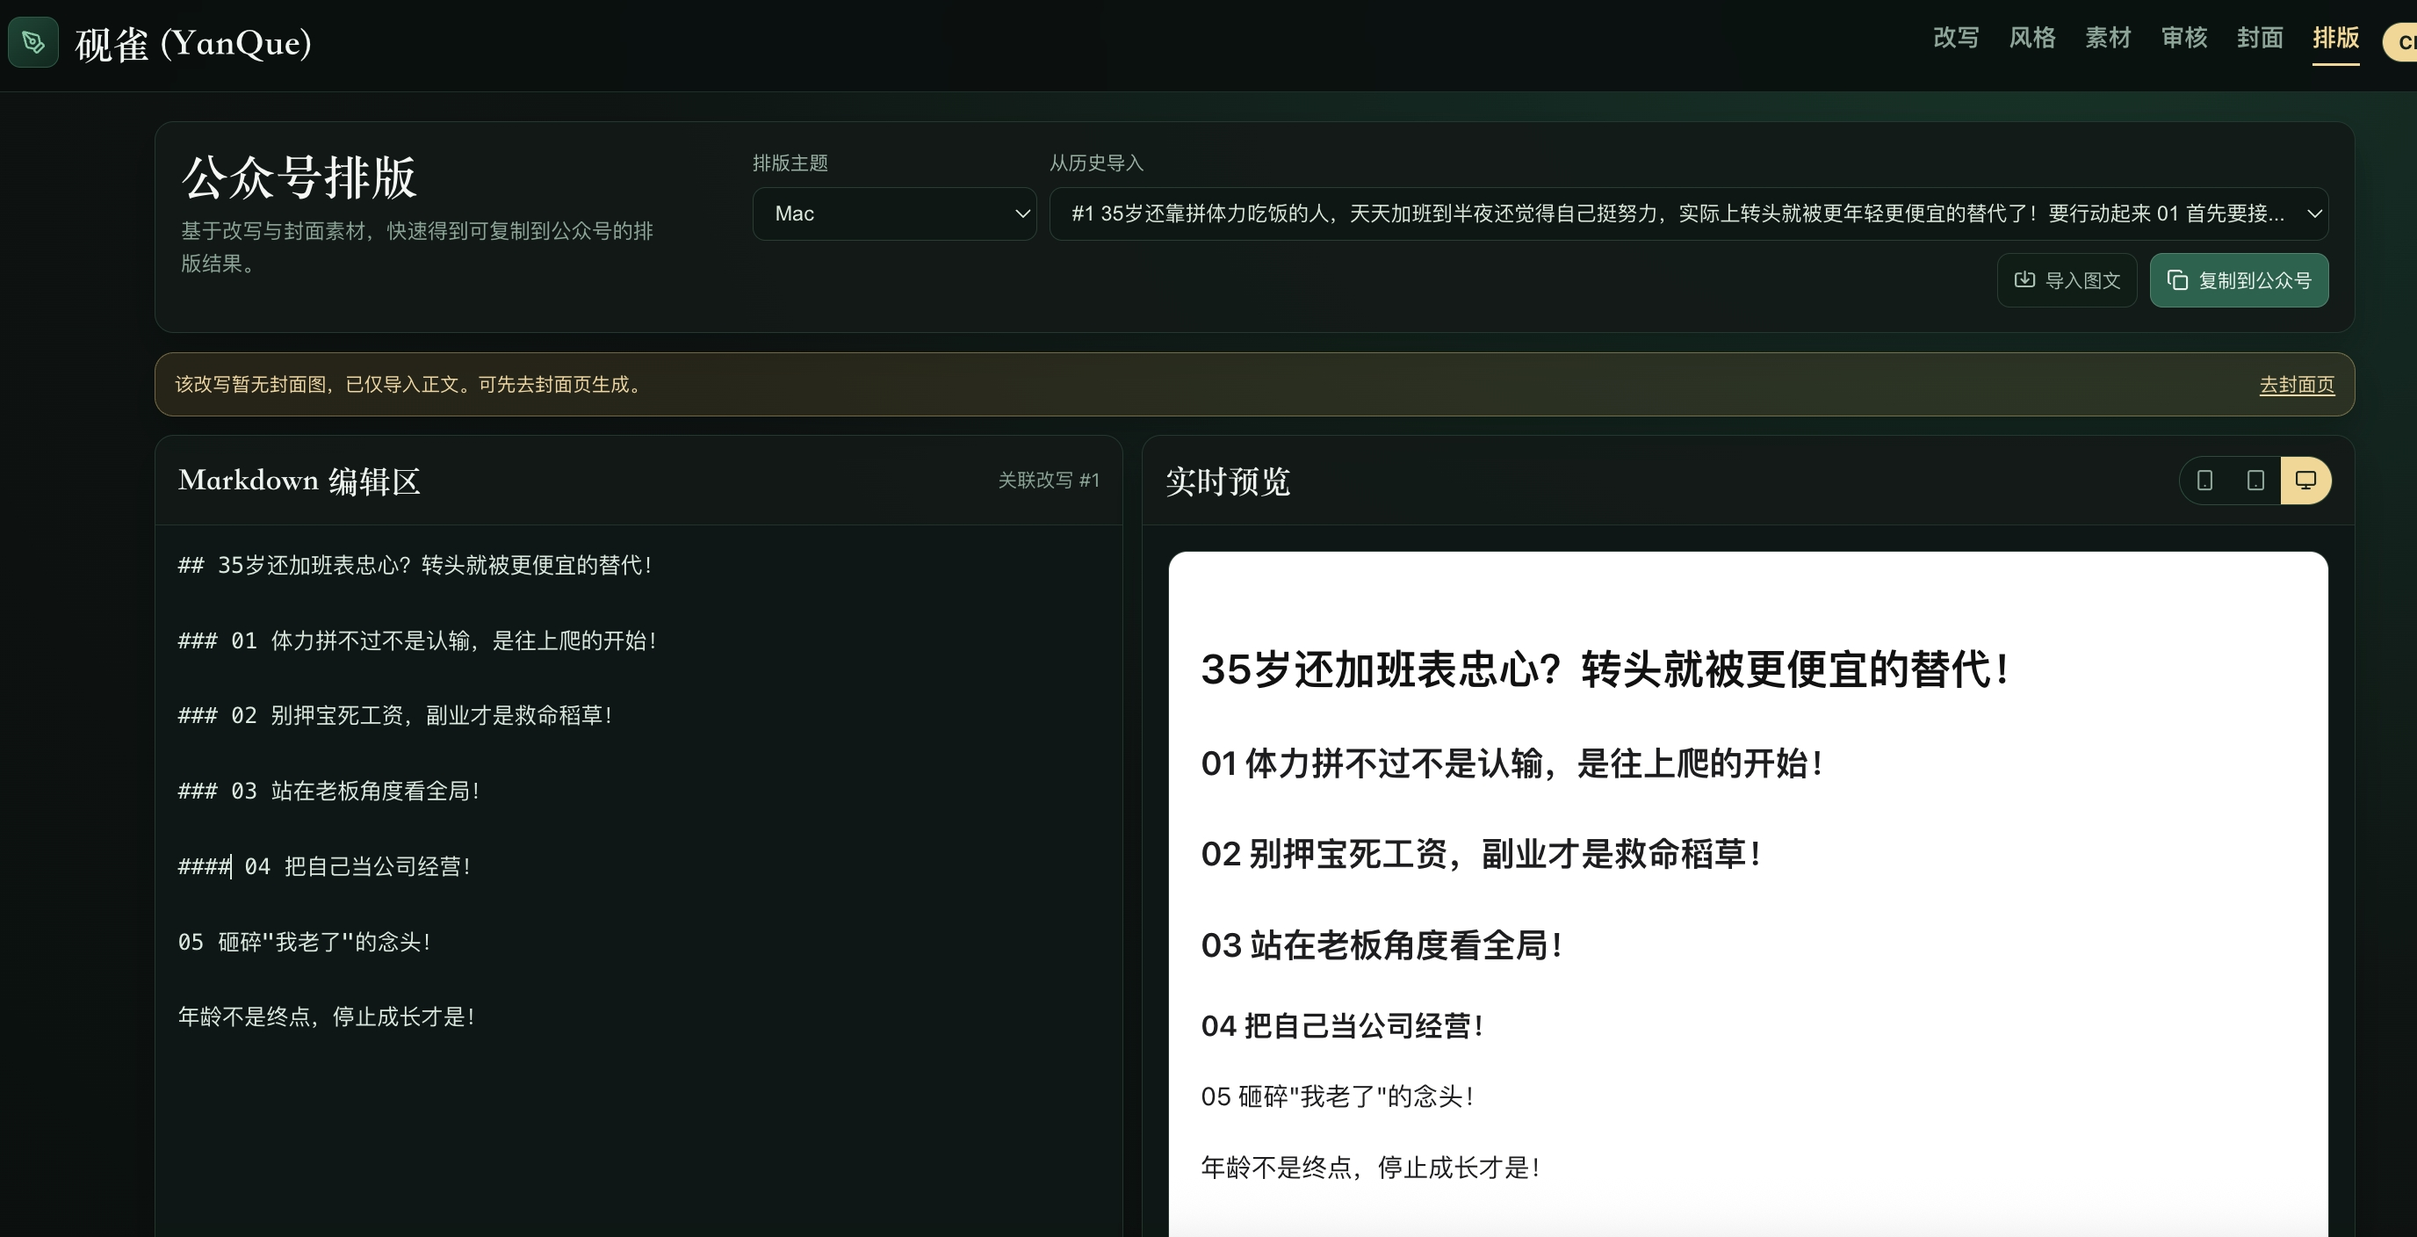
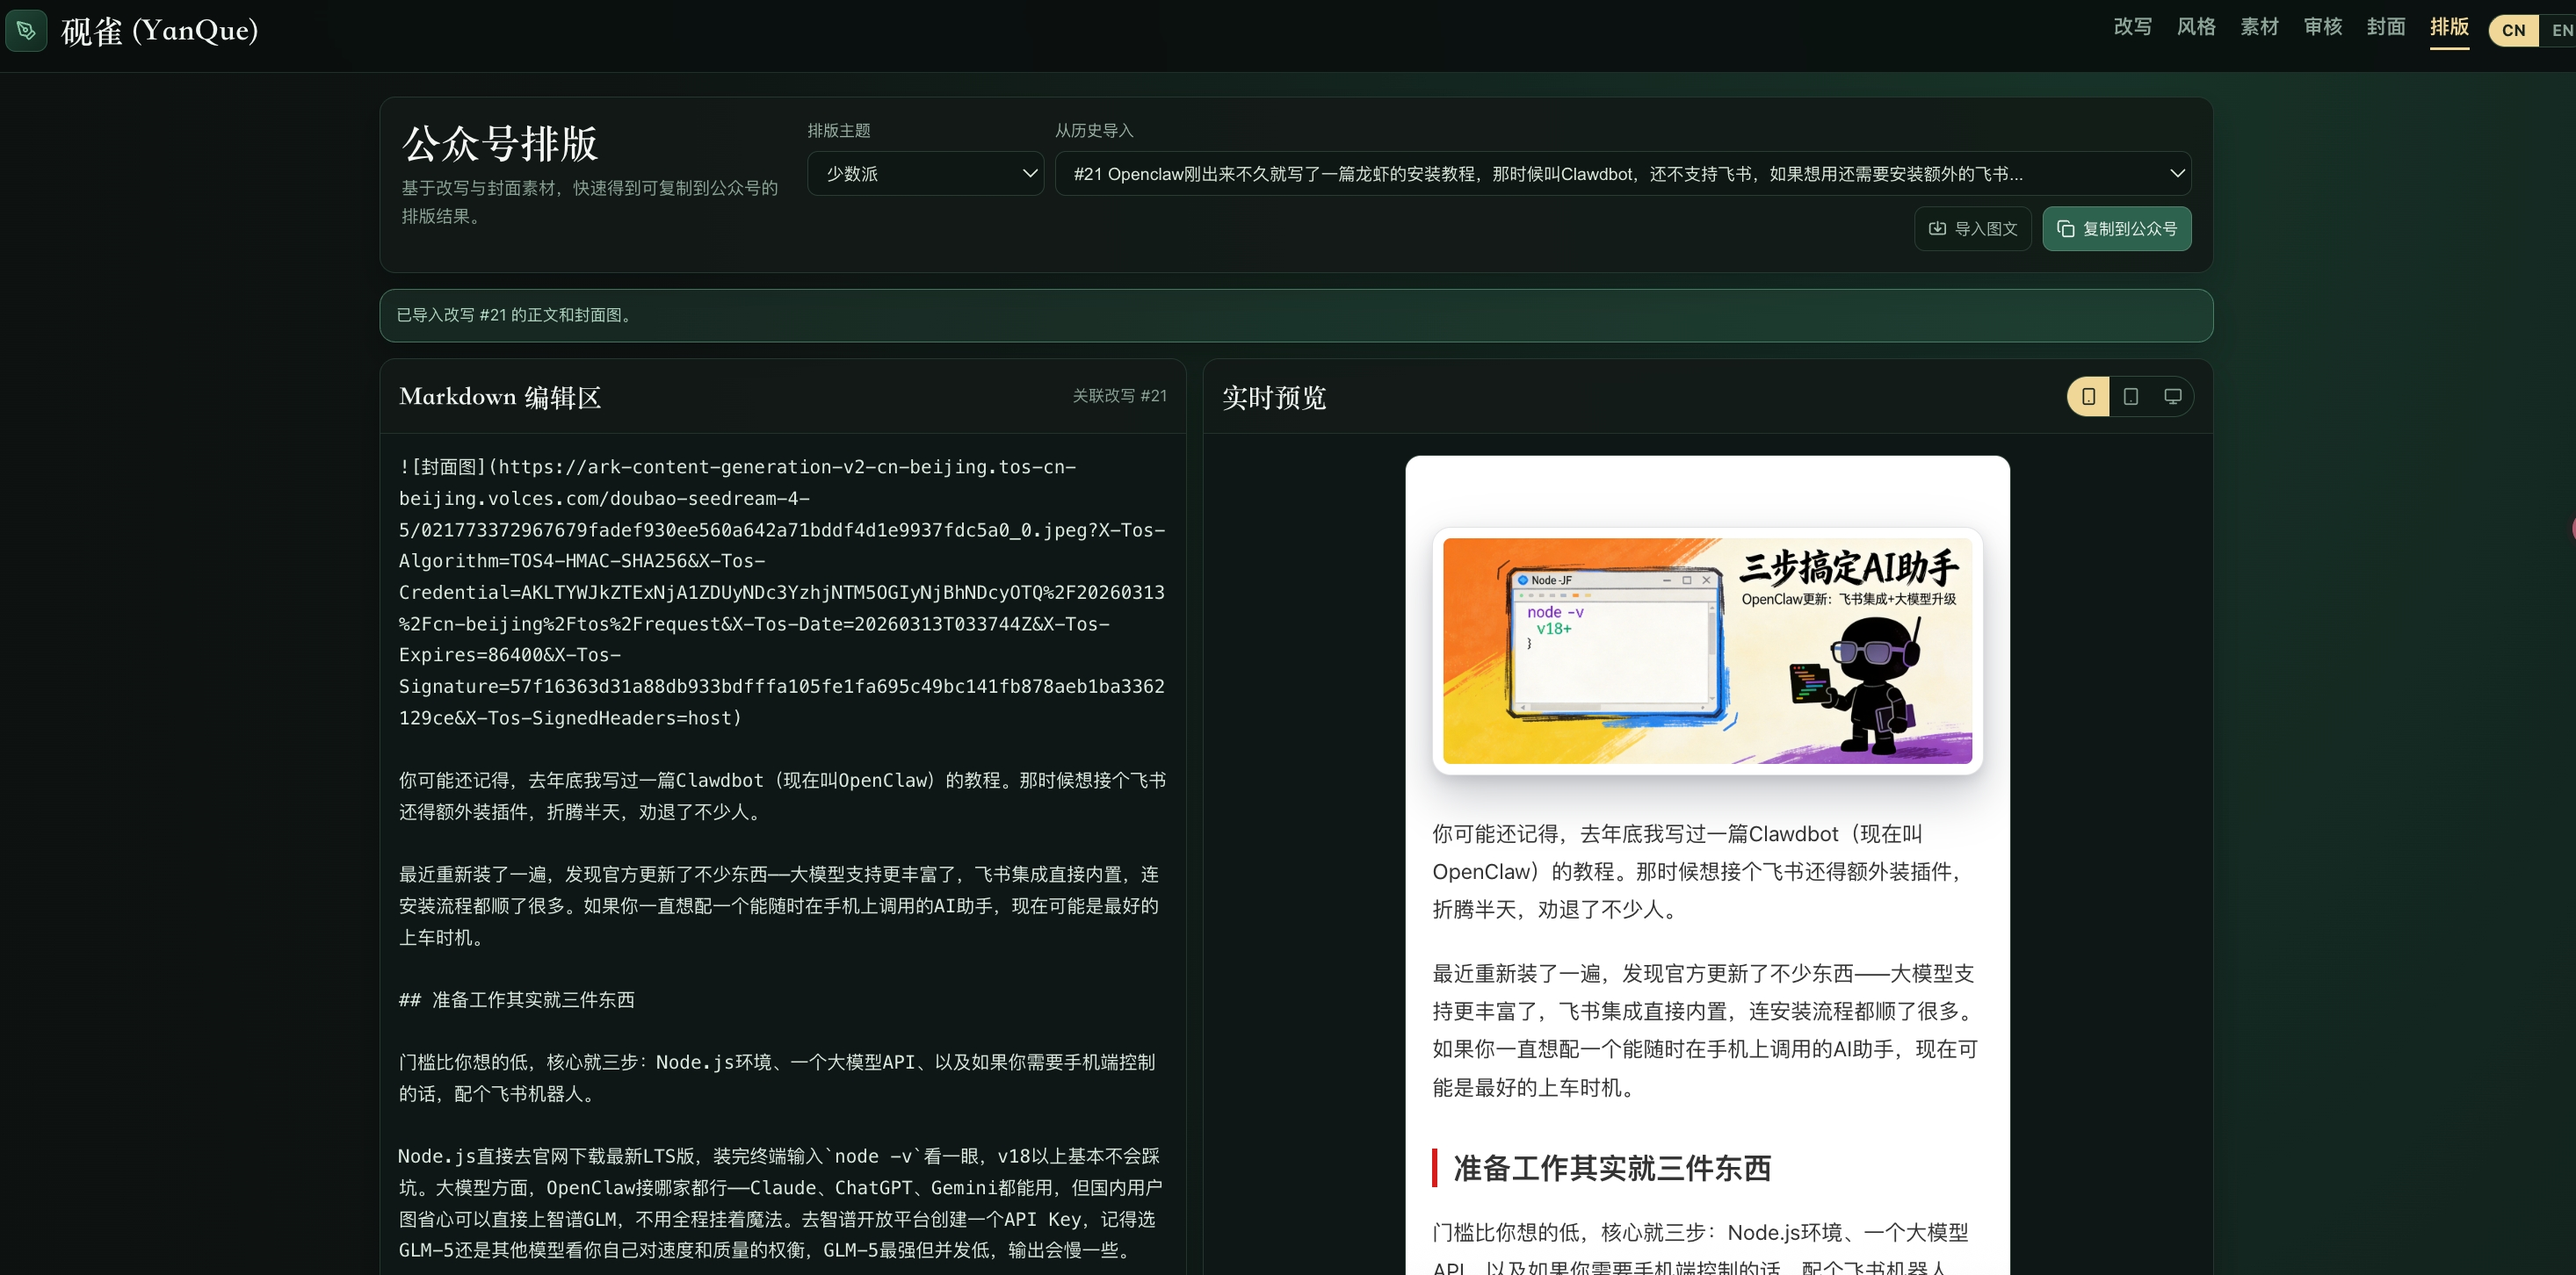
docs(readme): refresh layout screenshot on GitHub homepage

diff --git a/CHANGELOG.md b/CHANGELOG.md
@@ -11,11 +11,13 @@
 - 改写页目标长度档位扩展为 `[100, 300, 500, 800, 1000, 1500, 2000, 5000, 8000]`，默认值保持 `500`。
 - 排版页改为路由级懒加载，避免将排版能力打入首页主包。
 - 前端构建新增 `manualChunks` 分包策略，并将 `highlight.js` 改为 `core + 按需语言注册`，显著降低排版相关 chunk 体积。
+- README 的排版页截图更新为最新 UI（替换 `docs/screenshots/layout-page-v2.png` 与 `docs/screenshots/layout-page.png`）。
 
 ### Verification
 - `cd frontend && npm run build` 通过，`layout-markdown` 从约 `1072.71kB` 降至 `175.31kB`，不再触发 `>500k` chunk 告警。
 - `cd frontend && npm run lint` 通过（仅剩历史 `react-hooks/exhaustive-deps` warning，无 error）。
 - Playwright 端到端烟测通过：语言切换与持久化、`/layout` 路由、三处“去排版”入口跳转、`rewrite_id` 导入与无封面兜底提示均符合预期。
+- 本地校验截图替换已生效：`layout-page-v2.png` 分辨率更新为 `2932x1452`。
 
 ## 2026-03-12
 
